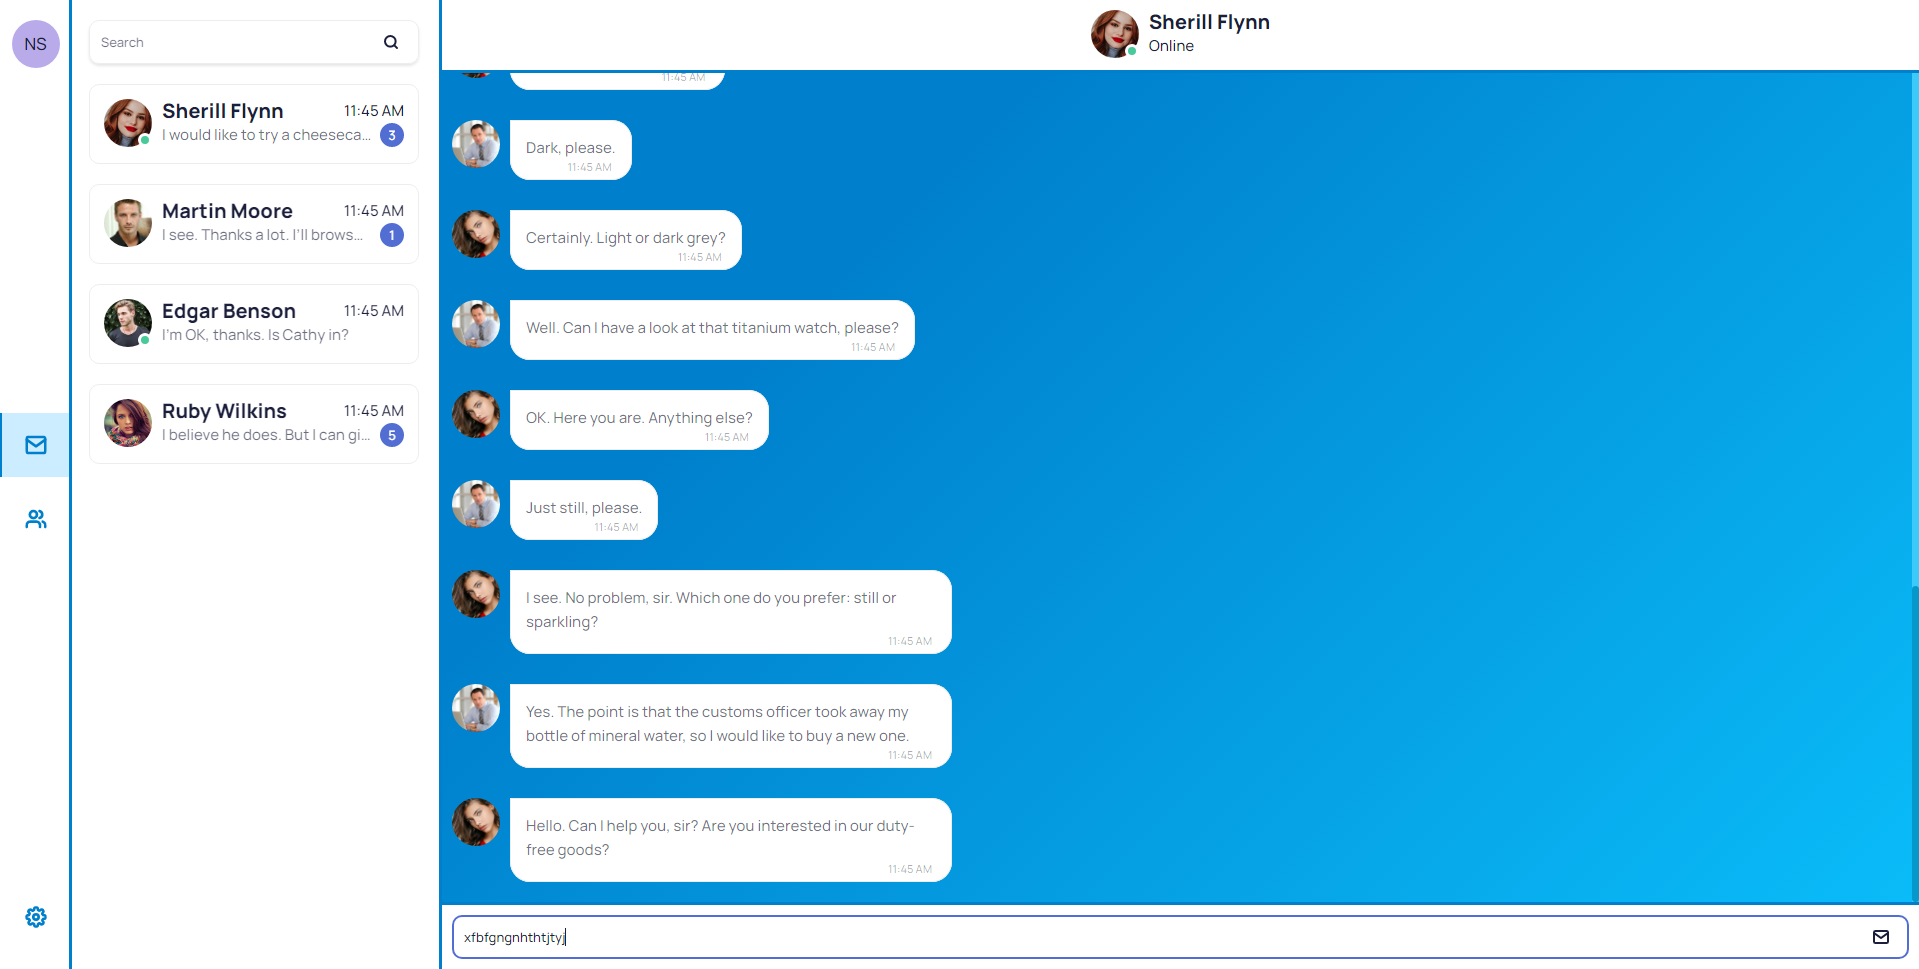
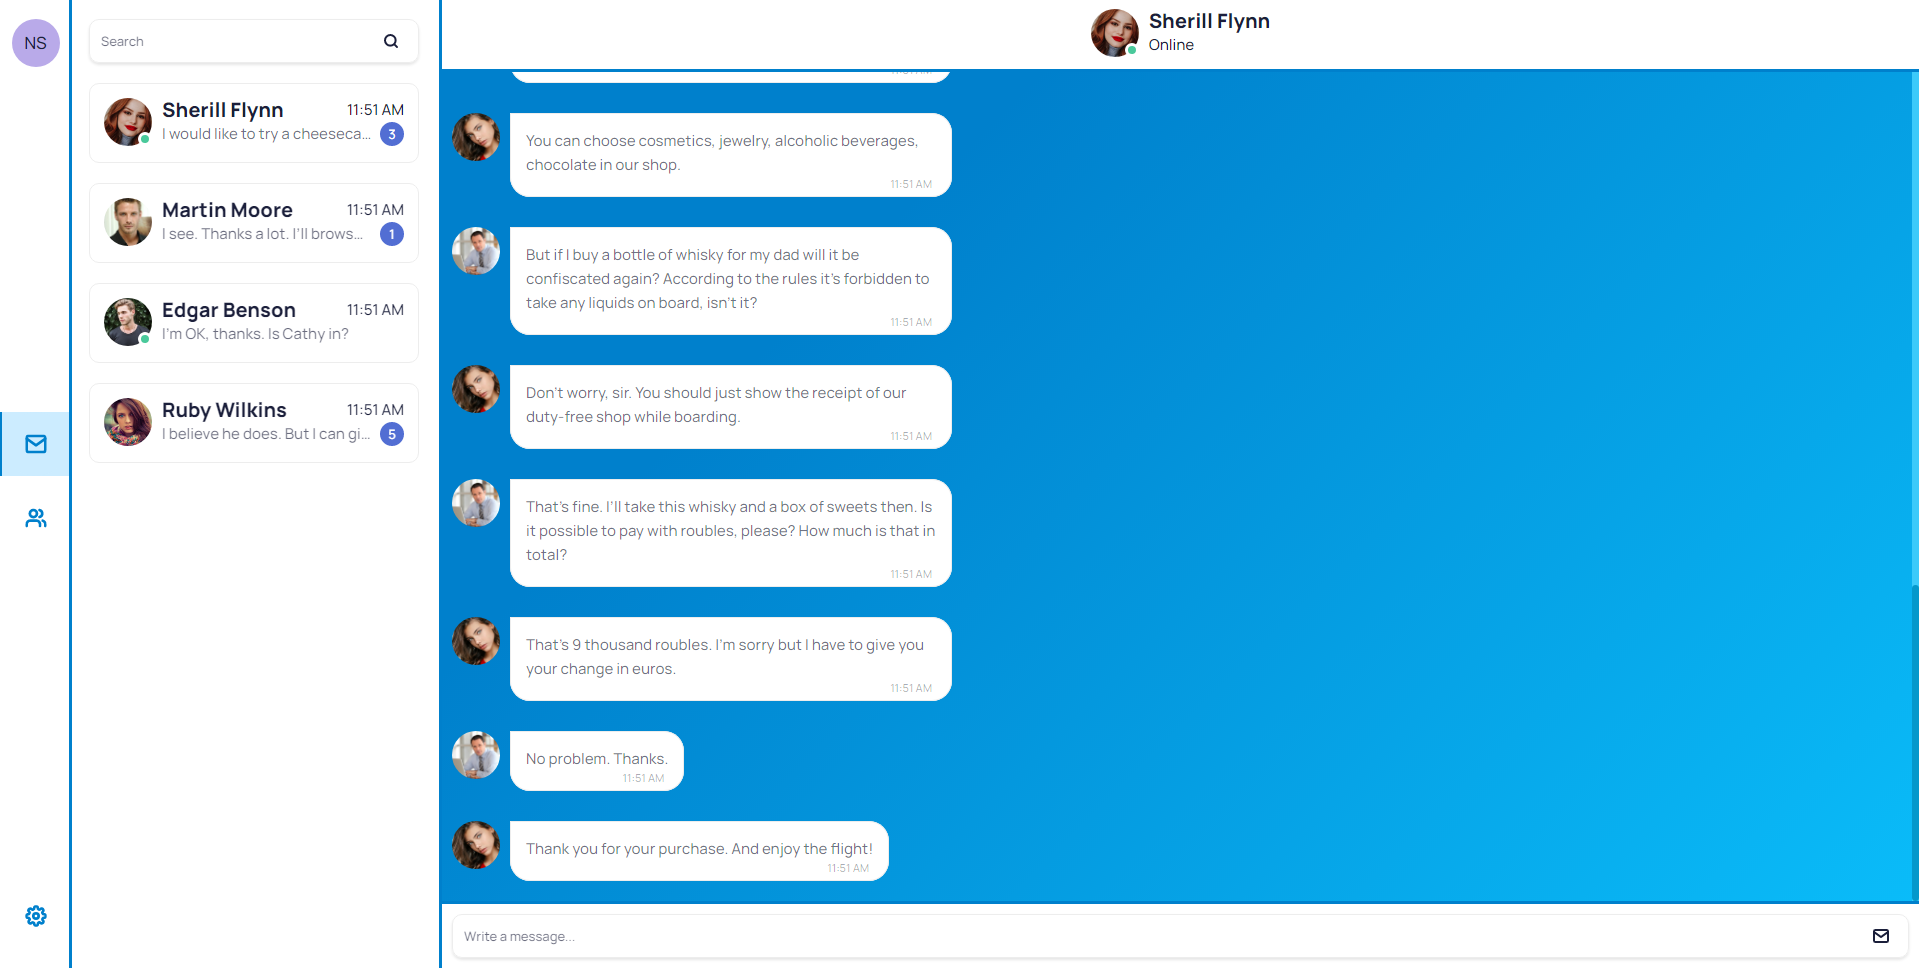
refactor: message order

diff --git a/src/app/modules/routed/messages/components/correspondence/correspondence.component.html b/src/app/modules/routed/messages/components/correspondence/correspondence.component.html
@@ -4,7 +4,7 @@
   </section>
 
   <section class='correspondence__messages'>
-    <sl-message *ngFor='let message of messages; trackBy: trackById' [message]='message'></sl-message>
+    <sl-message *ngFor='let message of messages.reverse(); trackBy: trackById' [message]='message'></sl-message>
   </section>
 
   <section class='correspondence__form'>
